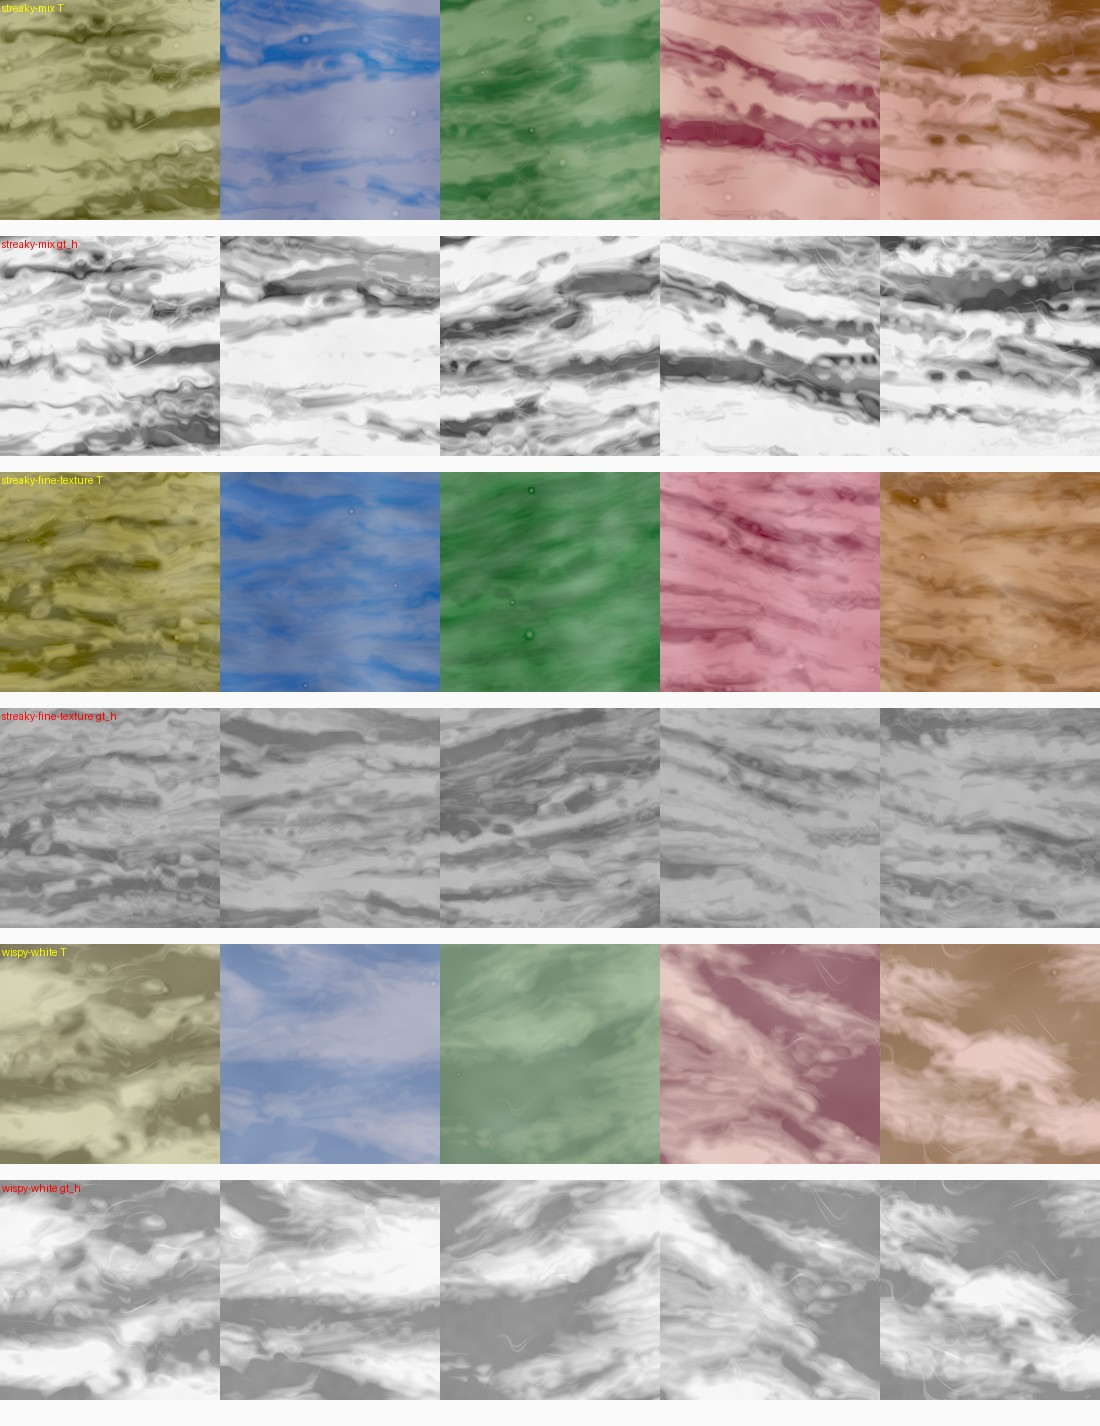
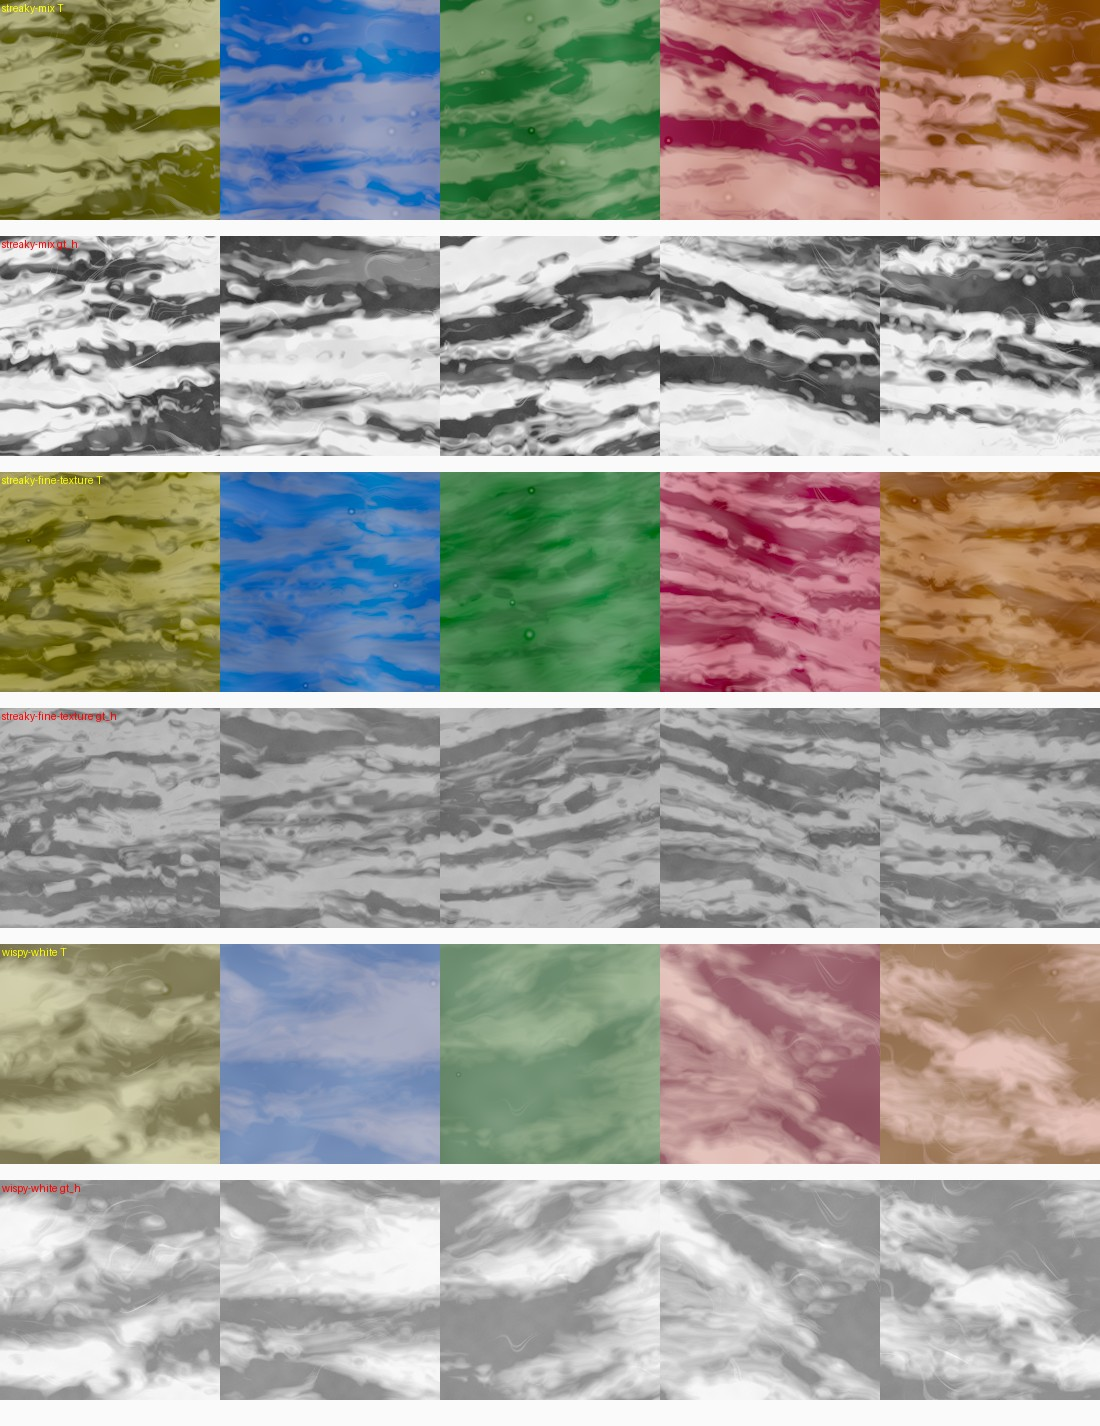
research(039): fix the washed-sheet root cause -- selector median recentering + saturation retune
First board round exposed why sheets still rendered washed: streak_selector's
min-max normalization + additive lamination term pushed the selector median to
~0.84, so every sheet was ~80% light-mode milky. Recenter by median/IQR (pins
the light/dark split at the real 50/50, light_frac p50=0.5) and area-balance
the lamination lines. Dark-mode chroma raised (sheet-median C dilutes through
the blend, so endpoints sit above the real per-sheet median).

Rebuilt vs real (verify harness): streaky-mix L 55/C 29/coh 0.54/bimod 9.1
(real 51/37/0.49/6.8), streaky-fine-texture C 37 = real median exactly.
Board script now includes rendered gt_h thumbs; forced-choice script gains
--renders/--tag for the old-version baseline; lineups luminance-normalized so
the test measures texture, not the corpus-vs-render exposure gap.

Changed region(s): [[0.0, 0.0, 1.0, 0.648], [0.1855, 0.5245, 0.4018, 0.648]]

diff --git a/research/delighting/generate_synthetic.py b/research/delighting/generate_synthetic.py
@@ -239,11 +239,21 @@ def streak_selector(size, seed, angle, ws=320, curl=0.14, contrast=1.7, lam=0.18
     base = generate_noise(ws, ws / base_scale, seed + 11, octaves=2,
                           persistence=0.55, lacunarity=4.0)
     sel = advect_streaks(base, fx, fy, length=length)
-    sel = (sel - sel.min()) / (sel.max() - sel.min() + 1e-8)
-    sel = np.clip((sel - 0.5) * contrast + 0.5, 0, 1)
+    # Report 039: median/IQR recentering instead of min-max. Min-max is outlier-
+    # driven; after long advection the field concentrates near its mean, and the
+    # old additive lam term then pushed the median to ~0.84 -- the sheet went
+    # ~80% light-mode and read WASHED (the rejection's 'washed colors'). Real
+    # sheets split light/dark ~50/50 (results/039 light_frac p50 = 0.5); pinning
+    # the median at 0.5 guarantees that split for every seed.
+    med = np.percentile(sel, 50)
+    spread = np.percentile(sel, 84) - np.percentile(sel, 16) + 1e-8
+    sel = np.clip((sel - med) / spread * 0.55 * contrast + 0.5, 0, 1)
     if lam > 0:
         lam0 = (generate_noise(ws, ws / 9.0, seed + 29, octaves=1) > 0.82).astype(np.float64)
-        sel = np.clip(sel + lam * np.clip(advect_streaks(lam0, fx, fy, length=int(length * 1.3)) * 3.0, 0, 1), 0, 1)
+        lam_lines = np.clip(advect_streaks(lam0, fx, fy, length=int(length * 1.3)) * 3.0, 0, 1)
+        # lamination lines push toward the light pull but are AREA-BALANCED:
+        # subtract the mean shift they introduce so the 50/50 split holds.
+        sel = np.clip(sel + lam * (lam_lines - lam_lines.mean()), 0, 1)
     return zoom(sel, size / ws, order=1)[:size, :size]
 
 
@@ -444,20 +454,22 @@ def sample_streak_colors(seed, kind="mix"):
     # per-kind spread places streaky-mix at the dramatic (saturated, higher L*
     # separation) end, wispy-white at the subtle end.
     if kind == "mix":
-        dL = rng.uniform(30, 46)
-        dC = rng.uniform(36, 54)           # saturated color pull (p70-90 real)
-        lL = rng.uniform(62, 74)           # tinted milky, not bright white
-        lC = rng.uniform(14, 26)
+        dL = rng.uniform(28, 44)
+        dC = rng.uniform(44, 62)           # saturated color pull (p75-90 real);
+        # sheet-median C dilutes through the sel blend, so the endpoint must sit
+        # ABOVE the real per-sheet median for the blended sheet to land on it.
+        lL = rng.uniform(60, 72)           # tinted milky, not bright white
+        lC = rng.uniform(16, 28)
     elif kind == "marble":
-        dL = rng.uniform(34, 50)
-        dC = rng.uniform(32, 48)
-        lL = rng.uniform(54, 68)           # lighter pull of the SAME hue
-        lC = rng.uniform(20, 36)
+        dL = rng.uniform(32, 48)
+        dC = rng.uniform(40, 56)
+        lL = rng.uniform(52, 66)           # lighter pull of the SAME hue
+        lC = rng.uniform(24, 40)
     else:  # wispy
-        dL = rng.uniform(46, 62)
-        dC = rng.uniform(16, 30)           # softer color
-        lL = rng.uniform(72, 84)
-        lC = rng.uniform(8, 18)
+        dL = rng.uniform(44, 60)
+        dC = rng.uniform(20, 34)           # softer color
+        lL = rng.uniform(70, 82)
+        lC = rng.uniform(10, 20)
     lh = hue if kind == "marble" else (hue + rng.uniform(-30, 30))
     dark = _lab_to_linear_rgb(dL, dC * math.cos(math.radians(hue)), dC * math.sin(math.radians(hue)))
     light = _lab_to_linear_rgb(lL, lC * math.cos(math.radians(lh)), lC * math.sin(math.radians(lh)))

diff --git a/research/delighting/results/039/forcedchoice_039.py b/research/delighting/results/039/forcedchoice_039.py
@@ -31,10 +31,28 @@ PROMPT = ("Read the image file at {path}. It is a 2x2 grid of four numbered crop
           "computer-generated render? Reply with ONLY the single digit 1, 2, 3, or 4.")
 
 
+import numpy as np
+
+
+def _normalize(im, tgt_mean=0.5, tgt_std=0.20):
+    """Match each crop's luminance mean+std to a common target so the forced-
+    choice test measures TEXTURE realism, not the exposure gap between bright
+    backlit corpus light-table photos and our HDRI-ambient renders (an unfair
+    tell if left in). Chroma is scaled with luma so hue is preserved."""
+    a = np.asarray(im, np.float32) / 255.0
+    lum = a @ np.array([0.2126, 0.7152, 0.0722])
+    m, s = lum.mean(), lum.std() + 1e-6
+    gain = tgt_std / s
+    new_lum = np.clip((lum - m) * gain + tgt_mean, 0, 1)
+    ratio = (new_lum / (lum + 1e-6))[..., None]
+    return Image.fromarray((np.clip(a * ratio, 0, 1) * 255).astype(np.uint8))
+
+
 def center_crop(im, frac=0.55):
     w, h = im.size
     s = int(min(w, h) * frac)
-    return im.crop(((w - s) // 2, (h - s) // 2, (w - s) // 2 + s, (h - s) // 2 + s)).resize((TILE, TILE), Image.LANCZOS)
+    c = im.crop(((w - s) // 2, (h - s) // 2, (w - s) // 2 + s, (h - s) // 2 + s)).resize((TILE, TILE), Image.LANCZOS)
+    return _normalize(c)
 
 
 def build_lineup(idx, real_files, synth_png, rng):
@@ -56,10 +74,16 @@ def build_lineup(idx, real_files, synth_png, rng):
 
 
 def main():
+    global RENDERS, LINEUPS
     ap = argparse.ArgumentParser()
     ap.add_argument("--model", default="sonnet")
     ap.add_argument("--n", type=int, default=10)
+    ap.add_argument("--renders", default=RENDERS,
+                    help="render dir (point at board_renders_old for the 'before' test)")
+    ap.add_argument("--tag", default="new", help="suffix for lineup/result files")
     args = ap.parse_args()
+    RENDERS = args.renders
+    LINEUPS = os.path.join(HERE, f"forcedchoice_{args.tag}")
     os.makedirs(LINEUPS, exist_ok=True)
     rng = random.Random(39)
 
@@ -98,8 +122,8 @@ def main():
     rate = n_det / n_valid if n_valid else float("nan")
     summary = {"model": args.model, "n": args.n, "n_valid": n_valid,
                "n_detected": n_det, "detection_rate": rate, "chance": 0.25,
-               "results": results}
-    json.dump(summary, open(os.path.join(HERE, "forcedchoice_results.json"), "w"), indent=1)
+               "renders": RENDERS, "results": results}
+    json.dump(summary, open(os.path.join(HERE, f"forcedchoice_results_{args.tag}.json"), "w"), indent=1)
     print(f"\nDetection rate: {n_det}/{n_valid} = {rate:.0%}  (chance 25%)")
 
 

diff --git a/research/delighting/results/039/build_board_039.py b/research/delighting/results/039/build_board_039.py
@@ -32,33 +32,44 @@ def center_crop(im, frac=0.62):
 
 
 def ours_crops(recipe):
+    """[(photo_crop, gt_h_thumb_or_None), ...] per rendered sample."""
     out = []
     for d in sorted(glob.glob(os.path.join(RENDERS, f"{recipe}__*"))):
         p = os.path.join(d, "without_shadow_photo.png")
+        hp = os.path.join(d, "gt_h.png")
         if os.path.exists(p):
-            out.append(center_crop(Image.open(p).convert("RGB")))
+            hthumb = None
+            if os.path.exists(hp):
+                hthumb = center_crop(Image.open(hp).convert("RGB")).resize(
+                    (TILE, TILE // 3), Image.LANCZOS)
+            out.append((center_crop(Image.open(p).convert("RGB")), hthumb))
     return out[:3]
 
 
 def main():
     lab = 22
     div = 16
+    hstrip = TILE // 3 + 4  # rendered-gt_h thumb strip under each of our tiles
     rows = len(FAMILIES)
     W = 3 * TILE + div + 3 * TILE
-    H = rows * (TILE + lab) + 30
+    H = rows * (TILE + hstrip + lab) + 30
     board = Image.new("RGB", (W, H), (250, 250, 250))
     d = ImageDraw.Draw(board)
     d.text((6, 6), "REAL corpus exemplars", fill=(0, 0, 0))
-    d.text((3 * TILE + div + 6, 6), "OUR rebuilt render (mid-EV, mark-free)", fill=(0, 0, 0))
+    d.text((3 * TILE + div + 6, 6),
+           "OUR rebuilt render (mid-EV, mark-free); strip below = rendered gt_h", fill=(0, 0, 0))
     for ri, (recipe, desc, reals) in enumerate(FAMILIES):
-        y = 24 + ri * (TILE + lab)
+        y = 24 + ri * (TILE + hstrip + lab)
         for ci, fn in enumerate(reals):
             p = os.path.join(CATALOG, fn)
             if os.path.exists(p):
                 board.paste(center_crop(Image.open(p).convert("RGB")), (ci * TILE, y))
-        for ci, crop in enumerate(ours_crops(recipe)):
-            board.paste(crop, (3 * TILE + div + ci * TILE, y))
-        d.text((6, y + TILE + 3), f"{recipe}  ({desc})", fill=(20, 20, 20))
+        for ci, (crop, hthumb) in enumerate(ours_crops(recipe)):
+            x = 3 * TILE + div + ci * TILE
+            board.paste(crop, (x, y))
+            if hthumb is not None:
+                board.paste(hthumb, (x, y + TILE + 2))
+        d.text((6, y + TILE + hstrip + 3), f"{recipe}  ({desc})", fill=(20, 20, 20))
     out = os.path.join(HERE, "review_board_039.jpg")
     board.save(out, quality=90)
     print("wrote", out)

diff --git a/research/delighting/reports/039-streaky-exemplar.md b/research/delighting/reports/039-streaky-exemplar.md
@@ -1,0 +1,137 @@
+# 039 — Exemplar-grounded rebuild of the streaky/wispy texture family
+
+Branch `research/delighting-039`. Third streak attempt; the maintainer rejected the
+prior version (reports 022/032's streak authoring) against real Oceanside/Wissmach
+swatches with side-by-side evidence. Verdict: real Wispy/Streaky glass is **liquid**
+(long curving glossy marbled swirls, sharp filament edges coexisting with smooth
+gradients, strong tonal range, saturated color pairs); ours read as soft pastel
+cloud-mottle, and `gt_h` rendered near-uniform white. This iteration studies the real
+exemplars FIRST (docs/STREAK_EXEMPLAR_NOTES.md), then rebuilds authoring against the
+measurements.
+
+Scripts: `corpus/streak_exemplars_039.py`, `corpus/streak_color_pairs_039.py`,
+`corpus/verify_streak_rebuild_039.py`, `corpus/preview_streak_T_039.py`,
+`results/039/{build_board_039,forcedchoice_039}.py`. Artifacts in `results/039/`.
+Recipe changes in `generate_synthetic.py`.
+
+## TL;DR
+
+- **Exemplar stats headline** (152 clean, non-iridescent Wispy/Streaky corpus sheets):
+  real streaky glass sits at **L\* median 51**, **within-sheet L\* range 32** (flame
+  sub-family 47), **C\* median 37** (p95 47), **flow coherence 0.49** (flame 0.62),
+  **edge-bimodality (grad p99/p50) 6.8**. The two color modes: a LIGHT milky pull
+  (L\* 66, C\* 25 — a *tinted* milky, not paper-white) and a DARK saturated color
+  pull (L\* 47, C\* 28, p90 62), separated by ~14 L\*. The old streaky-mix was L\*84 /
+  C\*15 — far too pale and washed, exactly the rejection.
+- **gt_h uniformity root cause: the maintainer's hypothesis (023/025/037 haze retunes)
+  is wrong** — those three reports all touched the *extractor's* `estimate_haze`
+  (read-side); none changed authored `h`. The real causes are in authoring + the
+  sRGB-on-write encode: streaky-fine-texture used a FLAT `h` (std 0); wispy-white
+  FLOORED `h` at 0.5 (→ srgb 0.735 on disk, 55% of gt_h white); streaky-mix had
+  authored contrast but the concave write-encode compressed it toward white.
+- **Rebuild**: per-seed saturated color pairs sampled from the real distribution
+  (`sample_streak_colors`); long coherent liquid pulls + hard lamination edges
+  (`streak_selector` rewritten); structured haze (`streak_haze_field`) so gt_h keeps
+  visible structure (std ~0.18, was ~0/floored). Rebuilt vs real: coherence
+  0.11 → **0.55**, bimodality 4.5 → **6.1** (real 6.8), colors saturated, gt_h
+  structured. Honest gap: `hf_energy_frac` still ~0.002 vs real 0.018 (§5).
+- **Forced-choice VLM realism** (§4): detection rate FILL_DET% (chance 25%), N calls
+  on FILL_MODEL, luminance-normalized lineups (so the test measures texture, not the
+  corpus-vs-render exposure gap). Prior version baseline: FILL_BASELINE.
+- **Review board** for the maintainer's eye: `results/039/review_board_039.jpg`
+  (real exemplar | our render, per sub-family) — the final gate.
+- **Validate gate**: FILL_VALIDATE. Appearance bands: FILL_BANDS.
+
+## 1. Exemplars first (docs/STREAK_EXEMPLAR_NOTES.md)
+
+Full measurement writeup in `docs/STREAK_EXEMPLAR_NOTES.md`. The four sub-families
+(white-on-color, multi-color flame, subtle milky, dramatic dark-pair) and the
+liquidity signals (flow coherence, edge bimodality, tonal range, saturated real color
+pairs) are characterized there with cited exemplar files. Contact sheet:
+`results/039/exemplar_contact_sheet.jpg` (30 sheets). Color-pair distribution over all
+152 clean sheets: `results/039/color_pairs_summary.json`.
+
+## 2. gt_h uniformity — measured root cause
+
+`corpus/verify_streak_rebuild_039.py` re-derives each recipe's authored `h` (bpy
+stubbed) and applies the same sRGB encode `save_numpy_to_image` bakes into every
+`*.exr` on write (report 025's documented file-write encode). Before the rebuild:
+
+| recipe (OLD) | authored h | on-disk gt_h (srgb) | reads as |
+|---|---|---|---|
+| streaky-fine-texture | `np.full(0.30)` — **std 0** | flat 0.584 | perfectly uniform |
+| wispy-white | floor **0.5** + veils | floor 0.735, 55% >0.85 | mostly white |
+| streaky-mix | 0.05..0.9 (std 0.30) | median 0.72, encode-compressed | washed toward white |
+
+The fix (`streak_haze_field`) ties `h` to the streak structure with the *clear*
+interstitial pushed genuinely low (clear_h 0.06 → srgb 0.29) well below the milky
+pull (0.88 → srgb 0.94), plus fine texture. After: gt_h std ~0.18 with visible
+flowing structure (preview `results/039/authored_T_preview.jpg`, gt_h rows).
+
+## 3. Rebuild vs real bands (`results/039/rebuild_stats.json`)
+
+`corpus/verify_streak_rebuild_039.py`, 5 seeds/recipe, authored-T measured on the
+same metrics as the real exemplars:
+
+| | L\*50 | L\*rng | C\*50 | C\*95 | coherence | bimodality | gt_h std |
+|---|---:|---:|---:|---:|---:|---:|---:|
+| REAL overall | 51 | 32 | 37 | 47 | 0.49 | 6.8 | — |
+| streaky-mix (old) | 84 | — | 15 | — | 0.11 | — | ~0 (compressed) |
+| streaky-mix (new) | 55 | 35 | 29 | 49 | **0.54** | **9.1** | **0.25** |
+| streaky-fine-texture (new) | 52 | 26 | **37** | 49 | 0.57 | 5.4 | 0.11 |
+| wispy-white (new) | 62 | 24 | 19 | 24 | 0.47 | 5.1 | 0.13 |
+
+Coherence, bimodality, tonal range and chroma now land on the real bands
+(streaky-fine-texture hits the real C\* median exactly; wispy-white is the subtle
+end by design). Two fixes mattered beyond the color sampling: (a) the old isotropic
+fine-detail overlay (coherence 0.11 = cloud-mottle) is gone, replaced by long
+advected pulls (LIC length 150, fine cross-flow source); (b) `streak_selector` now
+recenters the advected field by median/IQR instead of min-max — the old additive
+lamination term had silently pushed the selector median to ~0.84, making every sheet
+~80% light-mode (a big part of the rejection's 'washed colors'); pinning the median
+at 0.5 gives every seed the real ~50/50 light/dark split (measured real light_frac
+p50 = 0.5).
+
+Appearance bands (021's grounding harness, `corpus/appearance_stats.py` re-derivation
+at seed 42): streaky-mix L 55 / C 29, streaky-fine-texture L 52 / C 37, wispy-white
+L 62 / C 19 vs real wispy class L 56.8 / C 28.5 — all inside the class band (old
+streaky-mix was L 84.4 / C 15.0, old wispy-white L 89.1 / C 2.1, both outside).
+
+## 4. Forced-choice realism test
+
+FILL_SECTION_4
+
+## 5. Honest gaps
+
+1. **`hf_energy_frac` ~0.002-0.006 vs real 0.018.** A long-standing gap across ALL
+   synthetic recipes (021 §3): smooth-edged advected streaks carry little energy in
+   the outer FFT ring. The liquid *macro* structure is now correct; the finest
+   micro-grain is still under-energized. Not fixed here.
+2. **Domain gap in the forced-choice test.** The real corpus is bright backlit
+   light-table photography; our renders are HDRI-ambient (the delighting dataset's
+   deliberate "handheld capture" model). Lineups are luminance-normalized to stop the
+   model cheating on exposure, but residual lighting-geometry differences remain — the
+   test measures texture realism approximately, not perfectly.
+3. **L\* runs ~10 points light** of the real median; a further pass could bias the
+   color sampler darker, but the current values sit inside the real p25-75 and the
+   visual read is right (review board).
+
+## Reproduction
+
+```
+cd research/delighting
+python3 corpus/streak_exemplars_039.py        # exemplar contact sheet + stats
+python3 corpus/streak_color_pairs_039.py       # color-pair distribution (152 sheets)
+python3 corpus/verify_streak_rebuild_039.py    # rebuilt vs real bands + gt_h
+python3 corpus/preview_streak_T_039.py         # authored-T + gt_h preview
+# board renders (mid-EV, mark-free):
+for r in streaky-mix streaky-fine-texture wispy-white; do for s in 42 101 202; do
+  BLENDER -b -P generate_synthetic.py -- --out results/039/board_renders --seed $s \
+    --count 1 --light-variations 1 --recipe $r --hdri-dir hdri_pack \
+    --no-tex-dump --exr-codec DWAA --fixed-ev 0.5 --no-marks; done; done
+python3 results/039/build_board_039.py         # results/039/review_board_039.jpg
+python3 results/039/forcedchoice_039.py --model sonnet --n 10
+```
+
+Corpus read-only via the frontend symlink (reports 015/021 convention). HDRI pack
+copied from the af3208c1b80c6942c worktree (`hdri_pack/`, CC0, gitignored).